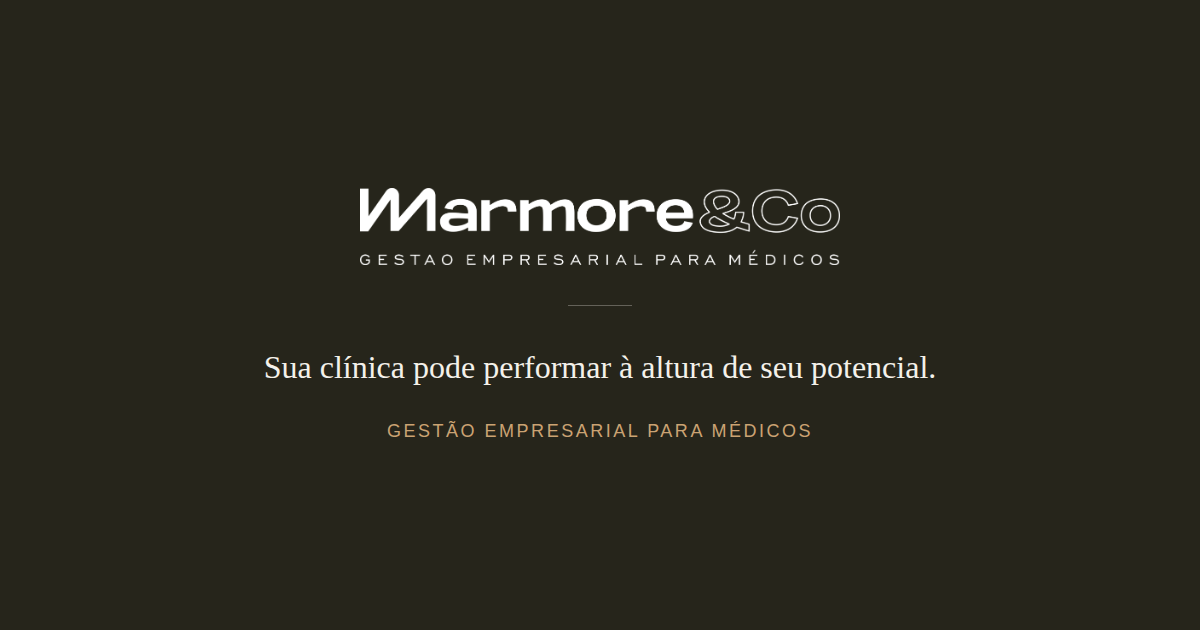
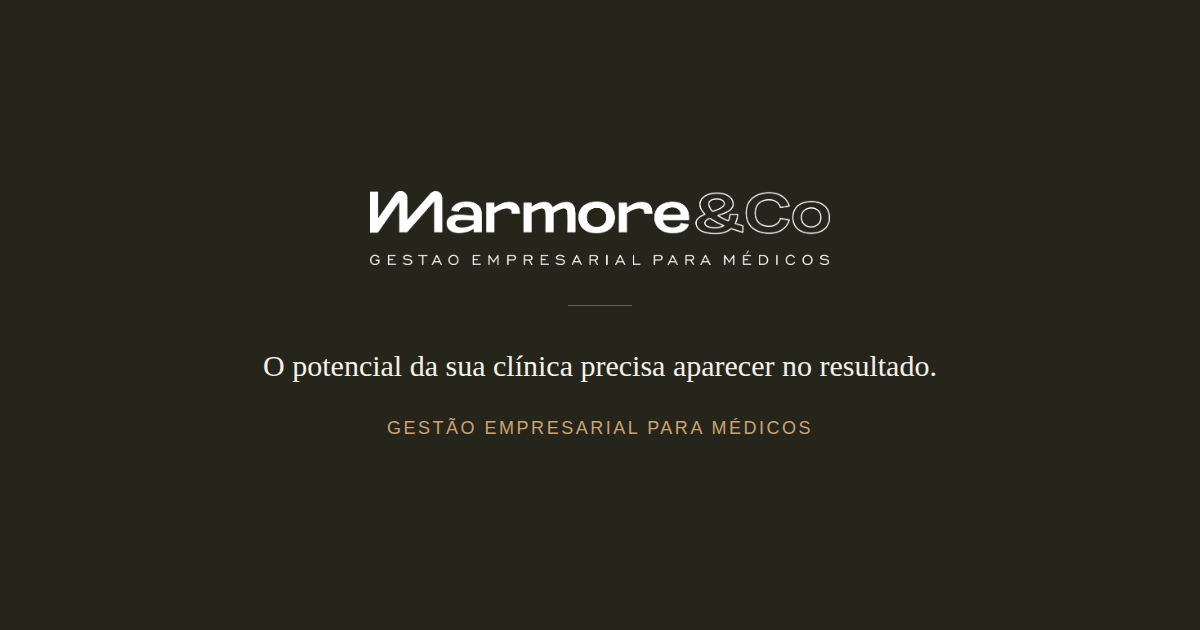
Nova versão do site: narrativa e estrutura v2
Substitui o conteúdo/estrutura anterior por uma nova versão (v0 enviada
pelo usuário), aplicando a mesma revisão pré-publicação de sempre:

- Resolve o export do bundler (x-dc/omelette) em HTML estático puro,
  eliminando variáveis de template não resolvidas ({{ sectionPadV }},
  {{ heroH1Style }}, {{ metodoH2Style }}, {{ contatoH2Style }})
- Remove LinkedIn e indicação "a confirmar" do bloco de contato
- Substitui href="#" por destinos reais; CTA "Acessar a plataforma"
  vira "Conhecer a plataforma" apontando para a seção Plataforma
  (dentro de Consultoria); CTA interno da própria seção vira "Em breve"
- Preenche os 3 image-slots vazios (hero, plataforma, founder) com os
  ativos de marca já existentes (texturas de mármore, monograma),
  mesma solução temporária até haver fotos reais
- Adiciona a marca d'água "M" (novo asset do v0) como elemento gráfico
  sutil no hero e no contato
- Configura title, meta description, og:image/twitter:image (headline
  nova) e mantém lang="pt-BR" e favicon já existentes

Aplica também o padrão de qualidade já estabelecido no site anterior:
- Menu/CTA em 14px, corpo em 18px, textos auxiliares em 15-16px
- Hierarquia de h2 na faixa de 32-48px
- Responsividade: nav e layout em flexbox com wrap nativo, breakpoints
  para ajuste fino de padding e tamanho de fonte em mobile
- Hover discreto nos botões, sombra sutil no header ao rolar a página
  (pequeno script vanilla JS substituindo a lógica de componente do
  bundler original)
[…]

Changed region(s): [[0.2775, 0.3016, 0.7092, 0.4222], [0.2158, 0.573, 0.8017, 0.6032], [0.3083, 0.6635, 0.6783, 0.6937]]

diff --git a/index.html b/index.html
@@ -4,7 +4,7 @@
 <meta charset="utf-8">
 <meta name="viewport" content="width=device-width, initial-scale=1">
 <title>Mármore &amp; Co — Gestão empresarial para médicos</title>
-<meta name="description" content="A Mármore identifica onde o desempenho está escapando e transforma oportunidades em decisões, execução e resultado.">
+<meta name="description" content="A Mármore identifica onde a clínica perde desempenho, define prioridades e acompanha a execução para transformar oportunidades em crescimento, rentabilidade e uma operação mais forte.">
 <link rel="canonical" href="https://www.marmoreconsultoria.com.br/">
 
 <link rel="icon" type="image/png" sizes="32x32" href="assets/img/favicon-32.png">
@@ -15,14 +15,14 @@
 <meta property="og:locale" content="pt_BR">
 <meta property="og:site_name" content="Mármore & Co">
 <meta property="og:title" content="Mármore & Co — Gestão empresarial para médicos">
-<meta property="og:description" content="A Mármore identifica onde o desempenho está escapando e transforma oportunidades em decisões, execução e resultado.">
+<meta property="og:description" content="A Mármore identifica onde a clínica perde desempenho, define prioridades e acompanha a execução para transformar oportunidades em crescimento, rentabilidade e uma operação mais forte.">
 <meta property="og:url" content="https://www.marmoreconsultoria.com.br/">
 <meta property="og:image" content="https://www.marmoreconsultoria.com.br/assets/img/og-image.png">
 <meta property="og:image:width" content="1200">
 <meta property="og:image:height" content="630">
 <meta name="twitter:card" content="summary_large_image">
 <meta name="twitter:title" content="Mármore & Co — Gestão empresarial para médicos">
-<meta name="twitter:description" content="A Mármore identifica onde o desempenho está escapando e transforma oportunidades em decisões, execução e resultado.">
+<meta name="twitter:description" content="A Mármore identifica onde a clínica perde desempenho, define prioridades e acompanha a execução para transformar oportunidades em crescimento, rentabilidade e uma operação mais forte.">
 <meta name="twitter:image" content="https://www.marmoreconsultoria.com.br/assets/img/og-image.png">
 
 <style>
@@ -37,22 +37,18 @@ body { margin:0; -webkit-font-smoothing:antialiased; }
 a { color:#5C5B3B; text-decoration:none; }
 a:hover { opacity:0.7; }
 ::selection { background:#CBA373; color:#201F1B; }
-.btn-gold { transition:opacity .15s ease, transform .15s ease; }
-.btn-gold:hover { opacity:0.88; }
+.btn-gold, .btn-dark { transition:opacity .15s ease; }
+.btn-gold:hover, .btn-dark:hover { opacity:0.88; }
 .link-underline { transition:opacity .15s ease; }
-nav a { padding:6px 2px; }
+#site-header { box-shadow:none; transition:box-shadow 240ms cubic-bezier(0.4,0,0.2,1); }
+#site-header.is-scrolled { box-shadow:0 1px 2px rgba(42,42,38,0.06); }
 @media (max-width:1024px) {
-  .grid-2col, .grid-3col, .grid-4col { grid-template-columns:1fr !important; }
-  .grid-gap-lg { gap:40px !important; }
+  .grid-2col, .grid-3col { grid-template-columns:1fr !important; }
 }
 @media (max-width:768px) {
   body { font-size:17px; }
-  .section-pad { padding-left:22px !important; padding-right:22px !important; padding-top:64px !important; padding-bottom:64px !important; }
-  .corner-index { display:none !important; }
-  header[style] { padding:20px 22px !important; flex-wrap:wrap; }
-  nav[style] { gap:16px !important; order:3; width:100%; padding-top:12px; }
-  .hero-media { order:2; margin-top:32px; }
-  h1[style] { margin-bottom:24px !important; }
+  .section-pad { padding-left:22px !important; padding-right:22px !important; }
+  h1[style] { font-size:38px !important; }
   .h2-title { font-size:32px !important; }
 }
 </style>
@@ -64,179 +60,166 @@ nav a { padding:6px 2px; }
 <div style="position:fixed; top:0; left:32px; width:1px; height:100vh; background:rgba(42,42,38,0.07); z-index:60; pointer-events:none;"></div>
 <div style="position:fixed; top:0; right:32px; width:1px; height:100vh; background:rgba(42,42,38,0.07); z-index:60; pointer-events:none;"></div>
 
-<header style="position:static; background:#FAF8F4; border-bottom:1px solid rgba(42,42,38,0.1); display:flex; align-items:center; justify-content:space-between; gap:24px; padding:30px 40px;">
+<header id="site-header" style="position:sticky; top:0; background:#FAF8F4; border-bottom:1px solid rgba(42,42,38,0.1); display:flex; flex-wrap:wrap; align-items:center; justify-content:space-between; gap:20px; padding:22px clamp(20px,5vw,40px); z-index:70;">
 <img src="assets/img/logo.png" alt="Marmore&amp;Co" style="height:22px; width:auto; flex-shrink:0;">
-<nav style="display:flex; gap:13px; flex-shrink:1; min-width:0;">
-<a href="#tese" style="font-size:14px; font-weight:500; letter-spacing:0.01em; text-transform:uppercase; color:rgba(42,42,38,0.7); white-space:nowrap;">Tese</a>
-<a href="#plataforma" style="font-size:14px; font-weight:500; letter-spacing:0.01em; text-transform:uppercase; color:rgba(42,42,38,0.7); white-space:nowrap;">Plataforma</a>
-<a href="#consultoria" style="font-size:14px; font-weight:500; letter-spacing:0.01em; text-transform:uppercase; color:rgba(42,42,38,0.7); white-space:nowrap;">Consultoria</a>
-<a href="#comotrabalhamos" style="font-size:14px; font-weight:500; letter-spacing:0.01em; text-transform:uppercase; color:rgba(42,42,38,0.7); white-space:nowrap;">Método</a>
-<a href="#quemsomos" style="font-size:14px; font-weight:500; letter-spacing:0.01em; text-transform:uppercase; color:rgba(42,42,38,0.7); white-space:nowrap;">Quem está por trás</a>
-<a href="#contato" style="font-size:14px; font-weight:500; letter-spacing:0.01em; text-transform:uppercase; color:rgba(42,42,38,0.7); white-space:nowrap;">Contato</a>
+<nav style="display:flex; gap:clamp(14px,2.4vw,22px); flex-wrap:wrap; flex:1 1 auto; justify-content:center; min-width:0;">
+<a href="#atuamos" style="font-size:14px; font-weight:500; letter-spacing:0.02em; text-transform:uppercase; color:rgba(42,42,38,0.7); white-space:nowrap;">Como atuamos</a>
+<a href="#metodo" style="font-size:14px; font-weight:500; letter-spacing:0.02em; text-transform:uppercase; color:rgba(42,42,38,0.7); white-space:nowrap;">Método</a>
+<a href="#plataforma" style="font-size:14px; font-weight:500; letter-spacing:0.02em; text-transform:uppercase; color:rgba(42,42,38,0.7); white-space:nowrap;">Plataforma</a>
+<a href="#quemsomos" style="font-size:14px; font-weight:500; letter-spacing:0.02em; text-transform:uppercase; color:rgba(42,42,38,0.7); white-space:nowrap;">Quem somos</a>
+<a href="#contato" style="font-size:14px; font-weight:500; letter-spacing:0.02em; text-transform:uppercase; color:rgba(42,42,38,0.7); white-space:nowrap;">Conversar</a>
 </nav>
-<a href="#plataforma" class="link-underline" style="display:inline-flex; align-items:center; gap:6px; font-family:'Mirai',sans-serif; font-weight:500; font-size:14px; color:#2A2A26; border-bottom:1px solid rgba(42,42,38,0.3); padding-bottom:4px; white-space:nowrap; flex-shrink:0;">Conhecer a plataforma <span>→</span></a>
+<a href="#plataforma" class="link-underline" style="display:inline-flex; align-items:center; gap:6px; font-family:'Mirai',sans-serif; font-weight:500; font-size:14px; padding:10px 18px; border:1px solid rgba(42,42,38,0.3); border-radius:6px; color:#2A2A26; white-space:nowrap; flex-shrink:0;">Conhecer a plataforma <span>→</span></a>
 </header>
 
-<section id="hero" class="grid-2col section-pad" style="position:relative; max-width:1360px; margin:0 auto; padding:100px 56px 60px 56px; display:grid; grid-template-columns:1.1fr 0.9fr; gap:48px; align-items:center;">
-<div class="corner-index" style="position:absolute; top:36px; right:56px; font-size:10px; letter-spacing:0.12em; text-transform:uppercase; color:rgba(42,42,38,0.35); font-weight:500;">01 — Início</div>
-<div>
-<h1 style="font-family:'Nephilm',serif; font-size:clamp(32px,4.2vw,58px); font-weight:400; line-height:1.15; letter-spacing:-0.015em; text-transform:none; margin:0 0 28px 0;">Sua clínica pode performar à altura de seu potencial.</h1>
-<p style="font-size:19px; line-height:1.65; color:rgba(42,42,38,0.82); max-width:560px; margin:0 0 36px 0; font-weight:300;">A Mármore identifica onde o desempenho está escapando e transforma oportunidades em decisões, execução e resultado.</p>
-<a href="#contato" class="btn-gold" style="display:inline-block; font-family:'Mirai',sans-serif; font-weight:500; font-size:15px; padding:17px 34px; background:#CBA373; color:#26251b; border-radius:6px;">Falar com a Mármore</a>
+<section id="hero" class="section-pad" style="position:relative; overflow:hidden; max-width:1360px; margin:0 auto; padding:clamp(64px,10vw,104px) clamp(24px,5vw,56px) clamp(56px,8vw,72px) clamp(24px,5vw,56px); display:flex; flex-wrap:wrap; gap:clamp(40px,6vw,64px); align-items:center;">
+<img src="assets/img/mark.png" alt="" style="position:absolute; top:24px; right:-110px; width:min(540px,52vw); opacity:0.05; pointer-events:none; z-index:0;">
+<div style="flex:1 1 460px;">
+<h1 style="font-family:'Nephilm',serif; font-size:clamp(38px,6.5vw,84px); font-weight:400; line-height:1.08; letter-spacing:-0.02em; margin:0 0 32px 0;">O potencial da sua clínica precisa <em style="font-style:italic; color:#916C53;">aparecer no resultado.</em></h1>
+<p style="font-size:clamp(17px,1.6vw,19px); line-height:1.65; color:rgba(42,42,38,0.8); max-width:540px; margin:0 0 36px 0; font-weight:300;">A Mármore identifica onde a clínica perde desempenho, define prioridades e acompanha a execução para transformar oportunidades em crescimento, rentabilidade e uma operação mais forte.</p>
+<div style="display:flex; flex-wrap:wrap; align-items:center; gap:28px;">
+<a href="#contato" class="btn-dark" style="display:inline-block; font-family:'Mirai',sans-serif; font-weight:500; font-size:15px; padding:15px 30px; background:#2A2A26; color:#FAF8F4; border-radius:6px;">Conversar sobre minha clínica</a>
+<a href="#atuamos" class="link-underline" style="display:inline-flex; align-items:center; gap:6px; font-family:'Mirai',sans-serif; font-weight:500; font-size:14px; color:#2A2A26; border-bottom:1px solid rgba(42,42,38,0.35); padding-bottom:3px;">Entender como atuamos <span>→</span></a>
 </div>
-<div class="hero-media" style="aspect-ratio:4/5; width:100%; border-radius:2px; overflow:hidden;">
+</div>
+<div style="flex:1 1 360px; max-width:460px; aspect-ratio:4/5; width:100%; border-radius:2px; overflow:hidden;">
 <img src="assets/img/texture-2.jpg" alt="" style="width:100%; height:100%; object-fit:cover; display:block;">
 </div>
 </section>
 
-<section id="problema" class="section-pad" style="position:relative; max-width:900px; margin:0 auto; padding:120px 56px; border-top:1px solid rgba(42,42,38,0.1);">
-<div class="corner-index" style="position:absolute; top:120px; right:56px; font-size:10px; letter-spacing:0.12em; text-transform:uppercase; color:rgba(42,42,38,0.35); font-weight:500;">02 — Problema</div>
+<section id="problema" style="position:relative; background:#26251b; color:#F4F1EA;">
+<div class="section-pad" style="max-width:820px; margin:0 auto; padding:120px clamp(24px,5vw,56px);">
 <div style="font-size:11px; font-weight:500; letter-spacing:0.16em; text-transform:uppercase; color:#CBA373; margin-bottom:20px;">O problema</div>
-<h2 class="h2-title" style="font-family:'Nephilm',serif; font-size:48px; font-weight:400; line-height:1.2; letter-spacing:-0.01em; margin:0 0 28px 0; max-width:680px;">Informação nunca foi o problema. Contexto, sim.</h2>
-<p style="font-size:18px; line-height:1.65; color:rgba(42,42,38,0.82); max-width:660px; margin:0 0 18px 0;">Sua clínica já opera com ERP, agenda, prontuário, financeiro, contador, planilhas e WhatsApp. Os dados existem — espalhados, desconectados, sem relação entre si.</p>
-<p style="font-size:18px; line-height:1.65; color:rgba(42,42,38,0.82); max-width:660px; margin:0;">O médico não sabe o que realmente importa agora, qual decisão pesa mais, onde concentrar a atenção. Não falta informação. Falta clareza para agir sobre ela.</p>
-</section>
-
-<section id="tese" style="position:relative; background:#26251b; color:#F4F1EA;">
-<div class="section-pad" style="max-width:1180px; margin:0 auto; padding:120px 56px; position:relative;">
-<div class="corner-index" style="position:absolute; top:120px; right:56px; font-size:10px; letter-spacing:0.12em; text-transform:uppercase; color:rgba(244,241,234,0.4); font-weight:500;">03 — Como Pensamos</div>
-<div style="font-size:11px; font-weight:500; letter-spacing:0.16em; text-transform:uppercase; color:#CBA373; margin-bottom:20px;">Uma nova forma de pensar a gestão</div>
-<h2 class="h2-title" style="font-family:'Nephilm',serif; font-size:48px; font-weight:400; line-height:1.2; letter-spacing:-0.01em; margin:0 0 56px 0; max-width:780px;">Informação vira clareza. Clareza vira decisão. Decisão vira execução.</h2>
-<div class="grid-4col grid-gap-lg" style="display:grid; grid-template-columns:repeat(4,1fr); gap:40px;">
-<div><div style="font-family:'Nephilm',serif; font-size:24px; margin-bottom:12px;">Informação</div><div style="font-size:16px; line-height:1.6; color:rgba(244,241,234,0.78);">Tudo que sua clínica já registra — agenda, financeiro, prontuário, atendimento.</div></div>
-<div><div style="font-family:'Nephilm',serif; font-size:24px; margin-bottom:12px;">Clareza</div><div style="font-size:16px; line-height:1.6; color:rgba(244,241,234,0.78);">Organizada e priorizada, mostrando o que realmente pesa agora.</div></div>
-<div><div style="font-family:'Nephilm',serif; font-size:24px; margin-bottom:12px;">Decisão</div><div style="font-size:16px; line-height:1.6; color:rgba(244,241,234,0.78);">Cada leitura vem com uma recomendação — não um painel para interpretar.</div></div>
-<div><div style="font-family:'Nephilm',serif; font-size:24px; margin-bottom:12px;">Execução</div><div style="font-size:16px; line-height:1.6; color:rgba(244,241,234,0.78);">Acompanhamento até a mudança acontecer — não só ser sugerida.</div></div>
-</div>
+<h2 class="h2-title" style="font-family:'Nephilm',serif; font-size:clamp(32px,3.8vw,48px); font-weight:400; line-height:1.2; letter-spacing:-0.01em; margin:0 0 28px 0;">Uma clínica pode crescer e ainda deixar resultado na mesa.</h2>
+<p style="font-size:18px; line-height:1.7; color:rgba(244,241,234,0.82); margin:0 0 18px 0;">Uma clínica pode atrair pacientes e aumentar o faturamento enquanto perde oportunidades na conversão, na carteira, no mix de procedimentos, na margem ou na execução da equipe.</p>
+<p style="font-size:18px; line-height:1.7; color:rgba(244,241,234,0.82); margin:0 0 40px 0;">A Mármore identifica onde isso acontece e concentra a gestão no que pode produzir maior impacto.</p>
+<div style="border-top:1px solid rgba(244,241,234,0.18); padding-top:24px; font-family:'Nephilm',serif; font-style:italic; font-size:22px; color:#F4F1EA;">Diagnosticar antes de prescrever.</div>
 </div>
 </section>
 
-<div style="height:140px; width:100%; overflow:hidden;">
+<div style="height:120px; width:100%; overflow:hidden;">
 <img src="assets/img/texture-1.jpg" alt="" style="width:100%; height:100%; object-fit:cover; display:block;">
 </div>
 
-<section id="solucao" class="section-pad" style="position:relative; max-width:1180px; margin:0 auto; padding:96px 56px;">
-<div class="corner-index" style="position:absolute; top:96px; right:56px; font-size:10px; letter-spacing:0.12em; text-transform:uppercase; color:rgba(42,42,38,0.35); font-weight:500;">04 — Como Resolvemos</div>
-<div style="font-size:11px; font-weight:500; letter-spacing:0.16em; text-transform:uppercase; color:#CBA373; margin-bottom:20px;">Como resolvemos</div>
-<h2 class="h2-title" style="font-family:'Nephilm',serif; font-size:48px; font-weight:400; line-height:1.2; letter-spacing:-0.01em; margin:0 0 48px 0; max-width:680px;">Duas frentes. Um único problema.</h2>
-<div class="grid-2col" style="display:grid; grid-template-columns:1fr 1fr; gap:64px; margin-bottom:40px;">
-<div>
-<div style="font-family:'Nephilm',serif; font-size:24px; margin-bottom:12px;">Plataforma</div>
-<div style="font-size:16px; line-height:1.6; color:rgba(42,42,38,0.8);">Torna a clareza possível todos os dias. Conecta o que já existe e devolve prioridade e contexto em tempo real.</div>
+<section id="ondeatuamos" class="section-pad" style="position:relative; max-width:1180px; margin:0 auto; padding:120px clamp(24px,5vw,56px);">
+<div style="font-size:11px; font-weight:500; letter-spacing:0.16em; text-transform:uppercase; color:#CBA373; margin-bottom:20px;">Onde atuamos</div>
+<h2 class="h2-title" style="font-family:'Nephilm',serif; font-size:clamp(32px,3.8vw,48px); font-weight:400; line-height:1.2; letter-spacing:-0.01em; margin:0 0 56px 0; max-width:700px;">Cada clínica perde resultado em um ponto diferente.</h2>
+<div style="display:flex; flex-direction:column;">
+<div style="display:flex; flex-wrap:wrap; align-items:baseline; gap:8px 32px; padding:26px 0; border-bottom:1px solid rgba(42,42,38,0.12);"><div style="flex:0 0 56px; font-family:'Nephilm',serif; font-size:28px; color:rgba(42,42,38,0.22);">01</div><div style="flex:0 0 220px; font-weight:500; font-size:16px;">Aquisição</div><div style="flex:1 1 320px; font-size:16px; line-height:1.6; color:rgba(42,42,38,0.75);">Qualidade, origem e custo da demanda.</div></div>
+<div style="display:flex; flex-wrap:wrap; align-items:baseline; gap:8px 32px; padding:26px 0; border-bottom:1px solid rgba(42,42,38,0.12);"><div style="flex:0 0 56px; font-family:'Nephilm',serif; font-size:28px; color:rgba(42,42,38,0.22);">02</div><div style="flex:0 0 220px; font-weight:500; font-size:16px;">Conversão</div><div style="flex:1 1 320px; font-size:16px; line-height:1.6; color:rgba(42,42,38,0.75);">Contatos, avaliações, orçamentos e perdas.</div></div>
+<div style="display:flex; flex-wrap:wrap; align-items:baseline; gap:8px 32px; padding:26px 0; border-bottom:1px solid rgba(42,42,38,0.12);"><div style="flex:0 0 56px; font-family:'Nephilm',serif; font-size:28px; color:rgba(42,42,38,0.22);">03</div><div style="flex:0 0 220px; font-weight:500; font-size:16px;">Carteira</div><div style="flex:1 1 320px; font-size:16px; line-height:1.6; color:rgba(42,42,38,0.75);">Recorrência, reativação e desenvolvimento de pacientes.</div></div>
+<div style="display:flex; flex-wrap:wrap; align-items:baseline; gap:8px 32px; padding:26px 0; border-bottom:1px solid rgba(42,42,38,0.12);"><div style="flex:0 0 56px; font-family:'Nephilm',serif; font-size:28px; color:rgba(42,42,38,0.22);">04</div><div style="flex:0 0 220px; font-weight:500; font-size:16px;">Rentabilidade</div><div style="flex:1 1 320px; font-size:16px; line-height:1.6; color:rgba(42,42,38,0.75);">Mix, margem, custos e capacidade instalada.</div></div>
+<div style="display:flex; flex-wrap:wrap; align-items:baseline; gap:8px 32px; padding:26px 0;"><div style="flex:0 0 56px; font-family:'Nephilm',serif; font-size:28px; color:rgba(42,42,38,0.22);">05</div><div style="flex:0 0 220px; font-weight:500; font-size:16px;">Operação</div><div style="flex:1 1 320px; font-size:16px; line-height:1.6; color:rgba(42,42,38,0.75);">Equipe, processos, prioridades e execução.</div></div>
 </div>
-<div>
-<div style="font-family:'Nephilm',serif; font-size:24px; margin-bottom:12px;">Consultoria</div>
-<div style="font-size:16px; line-height:1.6; color:rgba(42,42,38,0.8);">Acelera as decisões mais importantes. Aplica a leitura da plataforma à realidade específica da sua clínica.</div>
-</div>
-</div>
-<div style="border-top:1px solid rgba(42,42,38,0.12); padding-top:24px; font-size:16px; color:rgba(42,42,38,0.72);">Uma não existe para justificar a outra. As duas existem para resolver o mesmo problema.</div>
+<div style="margin-top:36px; font-size:16px; color:rgba(42,42,38,0.6); font-style:italic; font-family:'Nephilm',serif;">O ponto de partida muda. O compromisso com o resultado, não.</div>
 </section>
 
-<section id="plataforma" style="position:relative; background:#26251b; color:#F4F1EA;">
-<div class="section-pad" style="max-width:1180px; margin:0 auto; padding:120px 56px; position:relative;">
-<div class="corner-index" style="position:absolute; top:120px; right:56px; font-size:10px; letter-spacing:0.12em; text-transform:uppercase; color:rgba(244,241,234,0.4); font-weight:500;">05 — Plataforma</div>
-<div style="font-size:11px; font-weight:500; letter-spacing:0.16em; text-transform:uppercase; color:#CBA373; margin-bottom:20px;">Plataforma</div>
-<h2 class="h2-title" style="font-family:'Nephilm',serif; font-size:48px; font-weight:400; line-height:1.2; letter-spacing:-0.01em; margin:0 0 24px 0; max-width:680px;">O lugar onde a clareza acontece todos os dias.</h2>
-<p style="font-size:18px; line-height:1.65; color:rgba(244,241,234,0.82); max-width:640px; margin:0 0 48px 0;">Ela não substitui seu ERP, prontuário ou agenda. Conecta o que já existe e devolve uma leitura única: o que importa, por que importa, o que fazer a respeito.</p>
-<div class="grid-2col" style="display:grid; grid-template-columns:1fr 1.1fr; gap:64px; align-items:center;">
-<div style="display:flex; flex-direction:column; gap:28px;">
-<div><div style="font-weight:500; font-size:16px; margin-bottom:6px;">Organiza</div><div style="font-size:15px; line-height:1.6; color:rgba(244,241,234,0.72);">Agenda, financeiro e prontuário, sem trocar de tela.</div></div>
-<div><div style="font-weight:500; font-size:16px; margin-bottom:6px;">Prioriza</div><div style="font-size:15px; line-height:1.6; color:rgba(244,241,234,0.72);">O que precisa de decisão hoje, em destaque.</div></div>
-<div><div style="font-weight:500; font-size:16px; margin-bottom:6px;">Explica</div><div style="font-size:15px; line-height:1.6; color:rgba(244,241,234,0.72);">Nenhum número aparece sem o porquê.</div></div>
-<div><div style="font-weight:500; font-size:16px; margin-bottom:6px;">Orienta</div><div style="font-size:15px; line-height:1.6; color:rgba(244,241,234,0.72);">Cada leitura termina em recomendação — não em gráfico solto.</div></div>
-<div style="display:inline-flex; align-items:center; gap:6px; margin-top:8px; font-family:'Mirai',sans-serif; font-weight:500; font-size:14px; color:#F4F1EA; border-bottom:1px solid rgba(244,241,234,0.35); padding-bottom:3px; width:fit-content;">Em breve</div>
+<section id="atuamos" style="position:relative; background:#DCD8CF;">
+<div class="section-pad" style="max-width:1180px; margin:0 auto; padding:120px clamp(24px,5vw,56px);">
+<div style="font-size:11px; font-weight:500; letter-spacing:0.16em; text-transform:uppercase; color:#916C53; margin-bottom:20px;">Como atuamos</div>
+<h2 class="h2-title" style="font-family:'Nephilm',serif; font-size:clamp(32px,3.8vw,48px); font-weight:400; line-height:1.2; letter-spacing:-0.01em; margin:0 0 56px 0; max-width:640px;">Revelar. Organizar. Fazer acontecer.</h2>
+<div class="grid-3col" style="display:grid; grid-template-columns:repeat(auto-fit,minmax(220px,1fr)); gap:1px; background:rgba(42,42,38,0.14); margin-bottom:32px;">
+<div style="background:#FAF8F4; padding:32px 26px;">
+<div style="display:flex; align-items:center; justify-content:space-between; margin-bottom:18px;">
+<div style="width:36px; height:36px; border:1.5px solid #2A2A26; border-radius:50%; position:relative; flex-shrink:0;"><div style="position:absolute; top:50%; left:50%; width:6px; height:6px; background:#2A2A26; border-radius:50%; transform:translate(-50%,-50%);"></div></div>
+<div style="font-family:'Nephilm',serif; font-size:22px; color:rgba(42,42,38,0.22);">01</div>
 </div>
-<div style="aspect-ratio:16/10; width:100%; border-radius:2px; overflow:hidden;">
-<img src="assets/img/texture-1.jpg" alt="" style="width:100%; height:100%; object-fit:cover; display:block;">
+<div style="font-weight:500; font-size:17px; margin-bottom:8px;">Revelar</div><div style="font-size:15px; line-height:1.6; color:rgba(42,42,38,0.75);">Compreendemos o negócio e identificamos oportunidades, perdas e riscos.</div></div>
+<div style="background:#FAF8F4; padding:32px 26px;">
+<div style="display:flex; align-items:center; justify-content:space-between; margin-bottom:18px;">
+<div style="width:36px; height:36px; border:1.5px solid #2A2A26; border-radius:8px; position:relative; flex-shrink:0;"><div style="position:absolute; top:50%; left:6px; right:6px; height:1.5px; background:#2A2A26; transform:translateY(-50%);"></div></div>
+<div style="font-family:'Nephilm',serif; font-size:22px; color:rgba(42,42,38,0.22);">02</div>
 </div>
+<div style="font-weight:500; font-size:17px; margin-bottom:8px;">Organizar</div><div style="font-size:15px; line-height:1.6; color:rgba(42,42,38,0.75);">Transformamos o diagnóstico em prioridades, responsáveis e planos de ação.</div></div>
+<div style="background:#FAF8F4; padding:32px 26px;">
+<div style="display:flex; align-items:center; justify-content:space-between; margin-bottom:18px;">
+<div style="width:36px; height:36px; border:1.5px solid #2A2A26; border-radius:8px; position:relative; flex-shrink:0;"><div style="position:absolute; top:50%; left:50%; width:16px; height:1.5px; background:#2A2A26; transform:translate(-50%,-50%) rotate(-45deg);"></div><div style="position:absolute; top:8px; right:7px; width:7px; height:7px; border-top:1.5px solid #2A2A26; border-right:1.5px solid #2A2A26; transform:rotate(45deg);"></div></div>
+<div style="font-family:'Nephilm',serif; font-size:22px; color:rgba(42,42,38,0.22);">03</div>
 </div>
+<div style="font-weight:500; font-size:17px; margin-bottom:8px;">Fazer acontecer</div><div style="font-size:15px; line-height:1.6; color:rgba(42,42,38,0.75);">Acompanhamos a execução, removemos impedimentos e avaliamos o impacto das decisões.</div></div>
 </div>
-</section>
-
-<section id="consultoria" style="position:relative; background:#DCD8CF;">
-<div class="grid-2col section-pad" style="max-width:1180px; margin:0 auto; padding:120px 56px; display:grid; grid-template-columns:1fr 1fr; gap:64px; position:relative;">
-<div class="corner-index" style="position:absolute; top:120px; right:56px; font-size:10px; letter-spacing:0.12em; text-transform:uppercase; color:rgba(42,42,38,0.35); font-weight:500;">06 — Consultoria</div>
-<div>
-<div style="font-size:11px; font-weight:500; letter-spacing:0.16em; text-transform:uppercase; color:#916C53; margin-bottom:20px;">Consultoria</div>
-<h2 class="h2-title" style="font-family:'Nephilm',serif; font-size:48px; font-weight:400; line-height:1.2; letter-spacing:-0.01em; margin:0 0 20px 0;">Transforma diagnóstico em prioridade, execução e resultado.</h2>
-<p style="font-size:18px; line-height:1.6; color:rgba(42,42,38,0.82); max-width:600px; margin:0 0 28px 0;">Compreendemos o contexto da clínica, definimos o que precisa avançar e acompanhamos a execução para que as decisões produzam mudança concreta.</p>
-<a href="#contato" class="link-underline" style="display:inline-flex; align-items:center; gap:6px; font-family:'Mirai',sans-serif; font-weight:500; font-size:15px; color:#2A2A26; border-bottom:1px solid rgba(42,42,38,0.35); padding-bottom:4px; width:fit-content;">Falar com a Mármore <span>→</span></a>
-</div>
-<div style="display:flex; flex-direction:column; gap:0;">
-<div style="padding:20px 0; border-bottom:1px solid rgba(42,42,38,0.18); font-size:16px; font-weight:500;">Estrutura operacional e processos</div>
-<div style="padding:20px 0; border-bottom:1px solid rgba(42,42,38,0.18); font-size:16px; font-weight:500;">Gestão financeira e indicadores</div>
-<div style="padding:20px 0; border-bottom:1px solid rgba(42,42,38,0.18); font-size:16px; font-weight:500;">Crescimento sustentável</div>
-<div style="padding:20px 0; font-size:16px; font-weight:500;">Experiência e padronização do paciente</div>
-</div>
+<div style="font-size:16px; color:rgba(42,42,38,0.65); max-width:620px;">A clínica executa. A Mármore conduz, acompanha e mantém as prioridades em movimento.</div>
 </div>
 </section>
 
-<section id="comotrabalhamos" class="section-pad" style="position:relative; max-width:1180px; margin:0 auto; padding:120px 56px;">
-<div class="corner-index" style="position:absolute; top:120px; right:56px; font-size:10px; letter-spacing:0.12em; text-transform:uppercase; color:rgba(42,42,38,0.35); font-weight:500;">07 — Método</div>
-<div style="font-size:11px; font-weight:500; letter-spacing:0.16em; text-transform:uppercase; color:#CBA373; margin-bottom:20px;">Como fazemos</div>
-<h2 class="h2-title" style="font-family:'Nephilm',serif; font-size:48px; font-weight:400; line-height:1.2; letter-spacing:-0.015em; text-transform:none; margin:0 0 16px 0; max-width:760px;">Método Contraposto</h2>
-<p style="font-size:18px; line-height:1.6; color:rgba(42,42,38,0.78); max-width:640px; margin:0 0 48px 0;">A estrutura por trás de cada decisão que tomamos com você — quatro eixos em equilíbrio, como a escultura clássica que dá nome ao método.</p>
-<div class="grid-4col" style="display:grid; grid-template-columns:repeat(4,1fr); gap:1px; background:rgba(42,42,38,0.12); margin-bottom:64px;">
-<div style="background:#FAF8F4; padding:32px 26px;"><div style="font-family:'Nephilm',serif; font-size:26px; color:rgba(42,42,38,0.3); margin-bottom:18px;">01</div><div style="font-weight:500; font-size:16px; margin-bottom:8px; letter-spacing:0.02em;">ESTRATÉGIA</div><div style="font-size:15px; line-height:1.6; color:rgba(42,42,38,0.75);">Direcionamento empresarial e visão de crescimento.</div></div>
-<div style="background:#FAF8F4; padding:32px 26px;"><div style="font-family:'Nephilm',serif; font-size:26px; color:rgba(42,42,38,0.3); margin-bottom:18px;">02</div><div style="font-weight:500; font-size:16px; margin-bottom:8px; letter-spacing:0.02em;">ESTRUTURA</div><div style="font-size:15px; line-height:1.6; color:rgba(42,42,38,0.75);">Organização interna e desenho operacional.</div></div>
-<div style="background:#FAF8F4; padding:32px 26px;"><div style="font-family:'Nephilm',serif; font-size:26px; color:rgba(42,42,38,0.3); margin-bottom:18px;">03</div><div style="font-weight:500; font-size:16px; margin-bottom:8px; letter-spacing:0.02em;">OPERAÇÕES</div><div style="font-size:15px; line-height:1.6; color:rgba(42,42,38,0.75);">Padronização e eficiência do dia a dia.</div></div>
-<div style="background:#FAF8F4; padding:32px 26px;"><div style="font-family:'Nephilm',serif; font-size:26px; color:rgba(42,42,38,0.3); margin-bottom:18px;">04</div><div style="font-weight:500; font-size:16px; margin-bottom:8px; letter-spacing:0.02em;">RELACIONAMENTO</div><div style="font-size:15px; line-height:1.6; color:rgba(42,42,38,0.75);">Experiência do paciente e retenção.</div></div>
-</div>
-<div style="font-size:11px; font-weight:500; letter-spacing:0.16em; text-transform:uppercase; color:rgba(42,42,38,0.4); margin-bottom:28px;">A jornada</div>
-<div class="grid-4col" style="display:grid; grid-template-columns:repeat(4,1fr); gap:24px;">
-<div style="border-top:2px solid #5C5B3B; padding-top:16px;"><div style="font-size:13px; color:rgba(42,42,38,0.4); margin-bottom:6px;">01</div><div style="font-weight:500; font-size:15px;">Conversa Estratégica</div></div>
-<div style="border-top:2px solid #5C5B3B; padding-top:16px;"><div style="font-size:13px; color:rgba(42,42,38,0.4); margin-bottom:6px;">02</div><div style="font-weight:500; font-size:15px;">Diagnóstico Empresarial</div></div>
-<div style="border-top:2px solid #5C5B3B; padding-top:16px;"><div style="font-size:13px; color:rgba(42,42,38,0.4); margin-bottom:6px;">03</div><div style="font-weight:500; font-size:15px;">Plano de Estruturação</div></div>
-<div style="border-top:2px solid #5C5B3B; padding-top:16px;"><div style="font-size:13px; color:rgba(42,42,38,0.4); margin-bottom:6px;">04</div><div style="font-weight:500; font-size:15px;">Acompanhamento e Implementação</div></div>
+<section id="metodo" class="section-pad" style="position:relative; max-width:1180px; margin:0 auto; padding:120px clamp(24px,5vw,56px);">
+<div style="font-size:11px; font-weight:500; letter-spacing:0.16em; text-transform:uppercase; color:#CBA373; margin-bottom:20px;">Método Contraposto</div>
+<h2 class="h2-title" style="font-family:'Nephilm',serif; font-size:clamp(32px,3.8vw,48px); font-weight:400; line-height:1.2; letter-spacing:-0.02em; margin:0 0 16px 0; max-width:680px;">Quatro dimensões. Uma clínica inteira.</h2>
+<p style="font-size:18px; line-height:1.6; color:rgba(42,42,38,0.78); max-width:620px; margin:0 0 48px 0;">O Método Contraposto analisa a clínica como um sistema integrado:</p>
+<div class="grid-4col" style="display:grid; grid-template-columns:repeat(auto-fit,minmax(220px,1fr)); gap:1px; background:rgba(42,42,38,0.12); margin-bottom:40px;">
+<div style="background:#FAF8F4; padding:32px 26px;"><div style="font-family:'Nephilm',serif; font-size:26px; color:rgba(42,42,38,0.3); margin-bottom:18px;">01</div><div style="font-weight:500; font-size:16px; margin-bottom:8px; letter-spacing:0.02em;">ESTRATÉGIA</div><div style="font-size:15px; line-height:1.6; color:rgba(42,42,38,0.75);">Direção, crescimento e rentabilidade.</div></div>
+<div style="background:#FAF8F4; padding:32px 26px;"><div style="font-family:'Nephilm',serif; font-size:26px; color:rgba(42,42,38,0.3); margin-bottom:18px;">02</div><div style="font-weight:500; font-size:16px; margin-bottom:8px; letter-spacing:0.02em;">ESTRUTURA</div><div style="font-size:15px; line-height:1.6; color:rgba(42,42,38,0.75);">Papéis, processos e indicadores.</div></div>
+<div style="background:#FAF8F4; padding:32px 26px;"><div style="font-family:'Nephilm',serif; font-size:26px; color:rgba(42,42,38,0.3); margin-bottom:18px;">03</div><div style="font-weight:500; font-size:16px; margin-bottom:8px; letter-spacing:0.02em;">OPERAÇÃO</div><div style="font-size:15px; line-height:1.6; color:rgba(42,42,38,0.75);">Rotinas, produtividade e eficiência.</div></div>
+<div style="background:#FAF8F4; padding:32px 26px;"><div style="font-family:'Nephilm',serif; font-size:26px; color:rgba(42,42,38,0.3); margin-bottom:18px;">04</div><div style="font-weight:500; font-size:16px; margin-bottom:8px; letter-spacing:0.02em;">RELACIONAMENTO</div><div style="font-size:15px; line-height:1.6; color:rgba(42,42,38,0.75);">Experiência, retenção e carteira.</div></div>
 </div>
 </section>
 
-<div style="height:140px; width:100%; overflow:hidden;">
+<div style="height:120px; width:100%; overflow:hidden;">
 <img src="assets/img/texture-2.jpg" alt="" style="width:100%; height:100%; object-fit:cover; display:block;">
 </div>
 
-<section id="diferenciais" class="grid-2col section-pad" style="position:relative; max-width:1180px; margin:0 auto; padding:96px 56px; display:grid; grid-template-columns:0.85fr 1.15fr; gap:64px;">
-<div class="corner-index" style="position:absolute; top:96px; right:56px; font-size:10px; letter-spacing:0.12em; text-transform:uppercase; color:rgba(42,42,38,0.35); font-weight:500;">08 — Diferenciais</div>
-<div>
-<div style="font-size:11px; font-weight:500; letter-spacing:0.16em; text-transform:uppercase; color:#CBA373; margin-bottom:20px;">Diferenciais</div>
-<h2 class="h2-title" style="font-family:'Nephilm',serif; font-size:48px; font-weight:400; line-height:1.2; letter-spacing:-0.01em; margin:0;">Menos software. Mais clareza.</h2>
+<section id="consultoria" style="position:relative; background:#26251b; color:#F4F1EA;">
+<div class="section-pad" style="max-width:1180px; margin:0 auto; padding:120px clamp(24px,5vw,56px);">
+<div style="font-size:11px; font-weight:500; letter-spacing:0.16em; text-transform:uppercase; color:#CBA373; margin-bottom:20px;">Consultoria e plataforma</div>
+<h2 class="h2-title" style="font-family:'Nephilm',serif; font-size:clamp(32px,3.8vw,48px); font-weight:400; line-height:1.2; letter-spacing:-0.01em; margin:0 0 56px 0; max-width:680px;">A consultoria conduz. A plataforma sustenta.</h2>
+<div class="grid-2col" style="display:flex; flex-wrap:wrap; gap:56px; margin-bottom:48px;">
+<div style="flex:1 1 320px;">
+<div style="font-family:'Nephilm',serif; font-size:24px; margin-bottom:12px;">Consultoria</div>
+<div style="font-size:16px; line-height:1.6; color:rgba(244,241,234,0.8);">A consultoria interpreta o contexto, define prioridades e acompanha a execução.</div>
 </div>
-<div style="display:flex; flex-direction:column; gap:0;">
-<div style="padding:0 0 28px 0; border-bottom:1px solid rgba(42,42,38,0.14);"><div style="font-family:'Nephilm',serif; font-size:24px; margin-bottom:10px;">Uma tese, não um módulo</div><div style="font-size:16px; line-height:1.6; color:rgba(42,42,38,0.8);">Não vendemos mais uma funcionalidade. Vendemos uma forma diferente de decidir.</div></div>
-<div style="padding:28px 0; border-bottom:1px solid rgba(42,42,38,0.14);"><div style="font-family:'Nephilm',serif; font-size:24px; margin-bottom:10px;">Mesma origem, duas frentes</div><div style="font-size:16px; line-height:1.6; color:rgba(42,42,38,0.8);">Não criamos consultoria para vender software, nem software para ilustrar consultoria.</div></div>
-<div style="padding:28px 0 0 0;"><div style="font-family:'Nephilm',serif; font-size:24px; margin-bottom:10px;">Acompanhamento até a mudança</div><div style="font-size:16px; line-height:1.6; color:rgba(42,42,38,0.8);">Não entregamos um relatório e desaparecemos. Ficamos até a decisão virar rotina.</div></div>
+<div id="plataforma" style="flex:1 1 320px;">
+<div style="font-family:'Nephilm',serif; font-size:24px; margin-bottom:12px;">Plataforma</div>
+<div style="font-size:16px; line-height:1.6; color:rgba(244,241,234,0.8); margin-bottom:16px;">A plataforma mantém indicadores, oportunidades, decisões, responsáveis e resultados visíveis entre uma reunião e outra.</div>
+<div style="font-size:14px; line-height:1.6; color:rgba(244,241,234,0.6); margin-bottom:20px;">Não substitui prontuário, agenda ou ERP. É tecnologia de gestão para transformar decisões em continuidade.</div>
+<div style="display:inline-flex; align-items:center; gap:6px; font-family:'Mirai',sans-serif; font-weight:500; font-size:14px; color:#F4F1EA; border-bottom:1px solid rgba(244,241,234,0.35); padding-bottom:3px;">Em breve</div>
+</div>
+</div>
+<div style="aspect-ratio:16/9; width:100%; max-width:820px; border-radius:2px; overflow:hidden;">
+<img src="assets/img/texture-1.jpg" alt="" style="width:100%; height:100%; object-fit:cover; display:block;">
+</div>
 </div>
 </section>
 
-<section id="quemsomos" class="grid-2col section-pad" style="position:relative; max-width:1180px; margin:0 auto; padding:120px 56px; border-top:1px solid rgba(42,42,38,0.1); display:grid; grid-template-columns:0.8fr 1.2fr; gap:64px; align-items:center;">
-<div class="corner-index" style="position:absolute; top:120px; right:56px; font-size:10px; letter-spacing:0.12em; text-transform:uppercase; color:rgba(42,42,38,0.35); font-weight:500;">09 — Quem está por trás</div>
-<div style="aspect-ratio:4/5; width:100%; max-width:360px; border-radius:2px; overflow:hidden; background:#26251b; display:flex; align-items:center; justify-content:center;">
+<section id="paraquem" style="position:relative; background:#DCD8CF;">
+<div class="section-pad" style="max-width:820px; margin:0 auto; padding:120px clamp(24px,5vw,56px);">
+<div style="font-size:11px; font-weight:500; letter-spacing:0.16em; text-transform:uppercase; color:#916C53; margin-bottom:20px;">Para quem existe</div>
+<h2 class="h2-title" style="font-family:'Nephilm',serif; font-size:clamp(30px,3.6vw,42px); font-weight:400; line-height:1.25; letter-spacing:-0.01em; margin:0 0 24px 0;">Para clínicas que já construíram muito — e sabem que podem operar melhor.</h2>
+<p style="font-size:18px; line-height:1.7; color:rgba(42,42,38,0.8); margin:0 0 18px 0;">A Mármore atua com clínicas que já possuem pacientes, equipe e receita, mas ainda enfrentam decisões centralizadas no médico, oportunidades pouco exploradas ou dificuldade para transformar planos em execução.</p>
+<p style="font-size:18px; line-height:1.7; color:rgba(42,42,38,0.8); margin:0;">É para quem procura inteligência para decidir e acompanhamento para fazer acontecer.</p>
+</div>
+</section>
+
+<section id="quemsomos" class="grid-2col section-pad" style="position:relative; max-width:1180px; margin:0 auto; padding:120px clamp(24px,5vw,56px); border-top:1px solid rgba(42,42,38,0.1); display:flex; flex-wrap:wrap; gap:64px; align-items:center;">
+<div style="flex:0 1 320px; width:100%; max-width:320px; aspect-ratio:4/5; border-radius:2px; overflow:hidden; background:#26251b; display:flex; align-items:center; justify-content:center;">
 <span style="font-family:'Nephilm',serif; font-size:96px; color:#CBA373;">M</span>
 </div>
-<div>
-<div style="font-size:11px; font-weight:500; letter-spacing:0.16em; text-transform:uppercase; color:#CBA373; margin-bottom:20px;">Quem está por trás</div>
-<h2 style="font-family:'Nephilm',serif; font-size:38px; font-weight:400; margin:0 0 8px 0;">Phelipe Marmore</h2>
-<div style="font-size:14px; font-weight:500; letter-spacing:0.08em; text-transform:uppercase; color:rgba(42,42,38,0.55); margin-bottom:24px;">Founder &amp; CEO</div>
-<p style="font-size:18px; line-height:1.65; color:rgba(42,42,38,0.82); max-width:640px; margin:0;">Criou a Mármore para ajudar médicos a compreender o negócio por inteiro, tomar decisões melhores e construir clínicas mais fortes, rentáveis e preparadas para crescer.</p>
+<div style="flex:1 1 460px;">
+<div style="font-size:11px; font-weight:500; letter-spacing:0.16em; text-transform:uppercase; color:#CBA373; margin-bottom:20px;">Quem somos</div>
+<h2 class="h2-title" style="font-family:'Nephilm',serif; font-size:clamp(28px,3.4vw,40px); font-weight:400; line-height:1.25; letter-spacing:-0.01em; margin:0 0 28px 0; max-width:600px;">Rigor para compreender. Proximidade para fazer avançar.</h2>
+<p style="font-size:18px; line-height:1.7; color:rgba(42,42,38,0.8); max-width:600px; margin:0 0 20px 0;">A Mármore&amp;Co é uma consultoria de gestão com tecnologia própria para clínicas. Unimos estratégia, análise de dados e acompanhamento da execução para transformar decisões melhores em resultados consistentes.</p>
+<p style="font-size:18px; line-height:1.7; color:rgba(42,42,38,0.8); max-width:600px; margin:0 0 20px 0;">Fundada por Phelipe Marmore, profissional com trajetória em estratégia, performance, operações e inteligência de negócios.</p>
+<p style="font-size:18px; line-height:1.7; color:rgba(42,42,38,0.8); max-width:600px; margin:0 0 24px 0;">O médico não precisa assumir uma segunda profissão para que sua clínica seja bem gerida. Precisa de método, visibilidade e apoio para conduzi-la.</p>
+<div style="font-size:14px; font-weight:500; letter-spacing:0.08em; text-transform:uppercase; color:rgba(42,42,38,0.55);">Phelipe Marmore — Fundador</div>
 </div>
 </section>
 
-<section id="contato" style="position:relative; background:#26251b; color:#F4F1EA;">
-<div class="grid-2col section-pad" style="max-width:1180px; margin:0 auto; padding:120px 56px; display:grid; grid-template-columns:1.1fr 0.9fr; gap:64px; align-items:center; position:relative;">
-<div class="corner-index" style="position:absolute; top:120px; right:56px; font-size:10px; letter-spacing:0.12em; text-transform:uppercase; color:rgba(244,241,234,0.4); font-weight:500;">10 — Contato</div>
-<div>
+<section id="contato" style="position:relative; overflow:hidden; background:#26251b; color:#F4F1EA;">
+<img src="assets/img/mark.png" alt="" style="position:absolute; bottom:24px; right:-100px; width:min(480px,48vw); opacity:0.07; filter:brightness(0) invert(1); pointer-events:none; z-index:0;">
+<div class="grid-2col section-pad" style="max-width:1180px; margin:0 auto; padding:120px clamp(24px,5vw,56px); position:relative; z-index:1; display:flex; flex-wrap:wrap; gap:64px; align-items:center;">
+<div style="flex:1 1 480px;">
 <div style="font-size:11px; font-weight:500; letter-spacing:0.16em; text-transform:uppercase; color:#CBA373; margin-bottom:20px;">Contato</div>
-<h2 class="h2-title" style="font-family:'Nephilm',serif; font-size:48px; font-weight:400; line-height:1.15; letter-spacing:-0.015em; text-transform:none; margin:0 0 36px 0; max-width:560px;">Você não precisa de mais dado. Precisa de clareza para decidir.</h2>
-<a href="https://wa.me/5521991252808" class="btn-gold" style="display:inline-block; font-family:'Mirai',sans-serif; font-weight:500; font-size:16px; padding:17px 34px; background:#CBA373; color:#26251b; border-radius:6px;">Falar com a Mármore</a>
+<h2 class="h2-title" style="font-family:'Nephilm',serif; font-size:clamp(32px,3.8vw,48px); font-weight:400; line-height:1.2; letter-spacing:-0.02em; margin:0 0 24px 0; max-width:520px;">Vamos entender onde sua clínica pode avançar.</h2>
+<p style="font-size:18px; line-height:1.65; color:rgba(244,241,234,0.82); max-width:480px; margin:0 0 32px 0;">Em uma primeira conversa, compreendemos o momento da clínica, identificamos sua principal questão de gestão e avaliamos como a Mármore pode contribuir.</p>
+<a href="https://wa.me/5521991252808" class="btn-gold" style="display:inline-block; font-family:'Mirai',sans-serif; font-weight:500; font-size:16px; padding:17px 34px; background:#CBA373; color:#26251b; border-radius:6px;">Conversar sobre minha clínica</a>
 </div>
-<div style="display:flex; flex-direction:column; gap:20px; font-size:15px;">
+<div style="flex:0 1 320px; display:flex; flex-direction:column; gap:20px; font-size:15px;">
 <div><div style="font-size:11px; color:rgba(244,241,234,0.45); text-transform:uppercase; letter-spacing:0.08em; margin-bottom:6px;">WhatsApp</div><a href="https://wa.me/5521991252808" style="color:#F4F1EA;">+55 21 99125-2808</a></div>
 <div><div style="font-size:11px; color:rgba(244,241,234,0.45); text-transform:uppercase; letter-spacing:0.08em; margin-bottom:6px;">Instagram</div><a href="https://instagram.com/marmore.consultoria" style="color:#F4F1EA;">@marmore.consultoria</a></div>
 </div>
 </div>
 </section>
 
-<footer class="section-pad" style="max-width:1180px; margin:0 auto; padding:48px 56px 64px 56px; display:flex; justify-content:space-between; align-items:center; flex-wrap:wrap; gap:16px;">
+<footer class="section-pad" style="max-width:1180px; margin:0 auto; padding:48px clamp(24px,5vw,56px) 64px clamp(24px,5vw,56px); display:flex; justify-content:space-between; align-items:center; flex-wrap:wrap; gap:16px;">
 <div style="display:flex; align-items:center; gap:14px;">
 <img src="assets/img/logo.png" alt="Marmore&amp;Co" style="height:20px; width:auto;">
 <span style="font-size:13px; color:rgba(42,42,38,0.5);">Mármore Consultoria</span>
@@ -245,5 +228,16 @@ nav a { padding:6px 2px; }
 </footer>
 
 </div>
+
+<script>
+(function () {
+  var header = document.getElementById('site-header');
+  function onScroll() {
+    if (window.scrollY > 8) header.classList.add('is-scrolled');
+    else header.classList.remove('is-scrolled');
+  }
+  window.addEventListener('scroll', onScroll, { passive: true });
+})();
+</script>
 
 </body></html>
